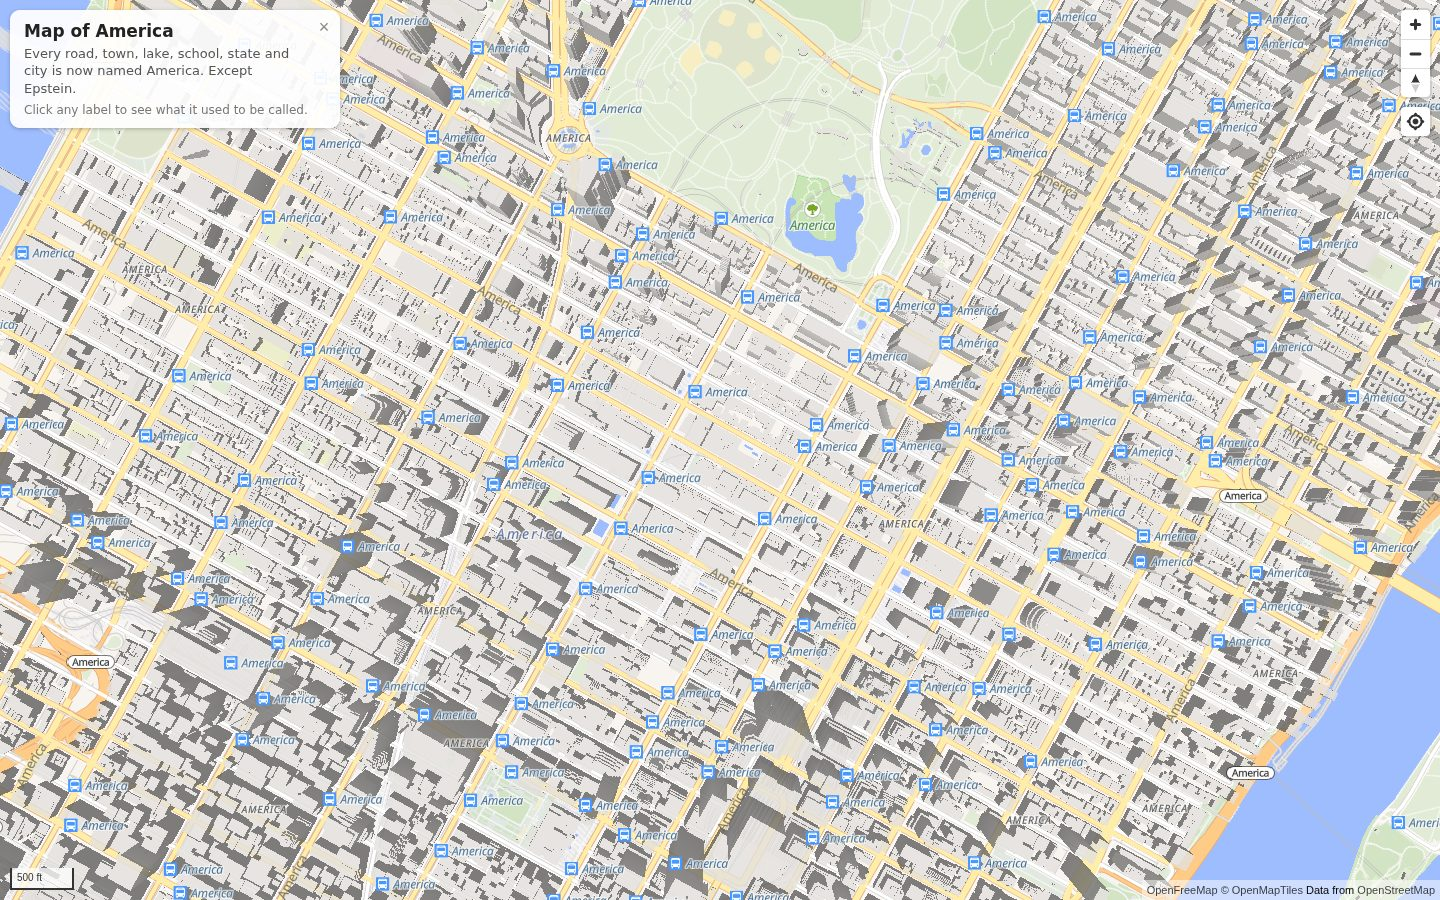
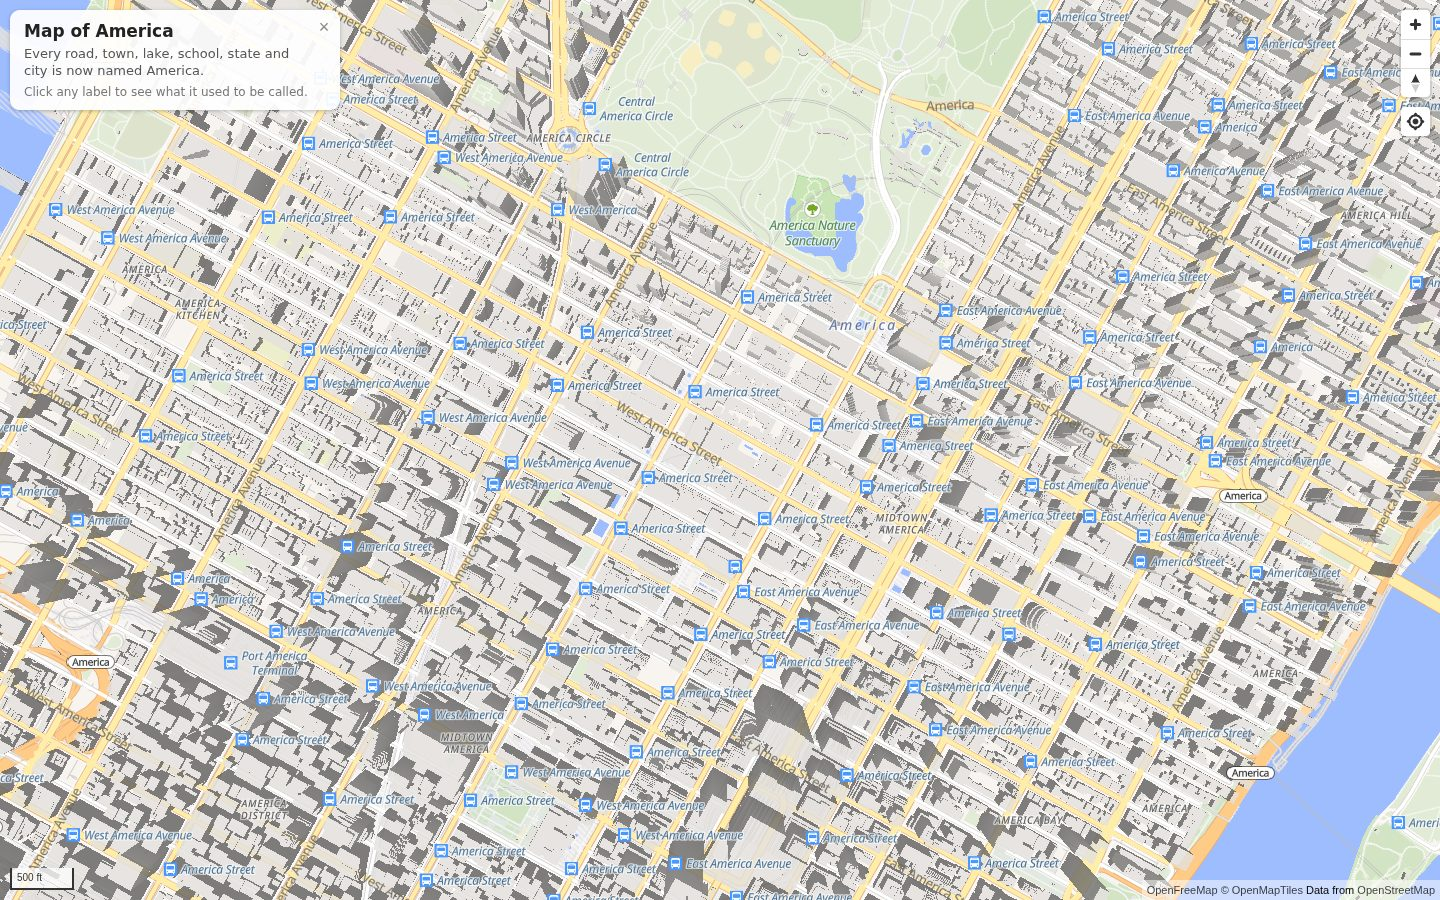
Rename carefully: keep the generic words, replace the proper noun
Lake Ontario is now Lake America, the Gulf of Mexico the Gulf of America,
New Mexico New America, South Dakota South America, and Greater Rochester
International Airport Greater America International Airport.

MapLibre expressions have no regular expressions, so america.js carries
lists of generic leading and trailing phrases mined from OpenStreetMap
names in US tiles. The longest matching suffix is taken first, then the
longest matching prefix of what is left, with America in between. When
only a lone generic word remains (New Haven, Central Park, South Park)
that word is kept and the suffix goes. Lookups are grouped by token
length into lazy match expressions; single-word names skip them.

Also: the popup shows the new name, the overlay no longer mentions the
exception, and the README documents the rename and switches the DNS
table to an ALIAS record.

Claude-Session: https://claude.ai/code/session_01SJEs18vTJ2dgcWt3HH5nAz

diff --git a/america.js b/america.js
@@ -6,6 +6,9 @@
  * example OpenFreeMap's "liberty") and rewrites every label so it reads
  * "America": roads, streets, towns, cities, states, countries, lakes, ponds,
  * rivers, oceans, parks, schools, airports, highway shields, mountains.
+ * Generic words survive: Lake Ontario becomes Lake America, the Gulf of
+ * Mexico the Gulf of America, and Greater Rochester International Airport
+ * Greater America International Airport.
  *
  * The one exception: any feature whose name contains "Epstein" keeps its
  * original name. Some things you can't rename.
@@ -29,8 +32,216 @@
   var DEFAULTS = {
     name: 'America',    // what everything is called now
     keep: ['Epstein'],  // case-insensitive substrings that exempt a feature
-    extras: true        // also label what Liberty leaves out or hides
+    extras: true,       // also label what Liberty leaves out or hides
+    careful: true       // keep generic words: "Lake Ontario" -> "Lake America"
   };
+
+  /* ------------------------------------------------------------------ */
+  /* Generic words                                                       */
+  /* ------------------------------------------------------------------ */
+
+  // Leading words that stay when a name is renamed. Each ends with a space
+  // so that "New " never matches "Newark". Longest match wins. Mined from
+  // OpenStreetMap names in US tiles; order here is for reading only.
+  var PREFIXES = [
+    // landforms and water
+    'Lake ', 'Lake of the ', 'Mount ', 'Mt. ', 'Cape ', 'Point ', 'Port ', 'Fort ', 'Ft. ', 'Camp ', 'Bayou ',
+    'Glen ', 'Isle ', 'Isle of ', 'Island of ', 'Key ', 'Sierra ', 'Gulf of ', 'Bay of ', 'Strait of ',
+    'Straits of ', 'Sea of ', 'Mouth of ', 'North Fork ', 'South Fork ', 'East Fork ', 'West Fork ',
+    'Middle Fork ',
+    // institutions
+    'Bank of ', 'Church of ', 'University of ', 'College of ', 'Museum of ', 'Library of ', 'School of ',
+    'Academy of ', 'Institute of ', 'Department of ', 'House of ', 'Law Offices of ', 'Consulate General of ',
+    'Hotel ', 'Cafe ', 'Café ', 'Hilton ', 'Holiday Inn ', 'Best Western ', 'Holy ', 'P.S. ',
+    'Mr. ', 'Dr. ', 'Pier ',
+    // places and governments
+    'City of ', 'Town of ', 'Village of ', 'County of ', 'State of ', 'Republic of ', 'Kingdom of ',
+    'United States of ', 'Commonwealth of ', 'Federal Republic of ', 'District of ', 'Pueblo of ',
+    'Saint ', 'St. ', 'St ', 'Ste. ', 'San ', 'Santa ', 'Santo ', 'São ', 'Los ', 'Las ', 'El ', 'La ', 'Le ',
+    'Les ', 'Des ', 'Rio ', 'Río ', 'Rancho ', 'Villa ', 'Ciudad ', 'Nuevo ', 'Nueva ',
+    'New ', 'North ', 'South ', 'East ', 'West ', 'Northeast ', 'Northwest ', 'Southeast ', 'Southwest ',
+    'Northern ', 'Southern ', 'Eastern ', 'Western ', 'Upper ', 'Lower ', 'Middle ', 'Old ', 'Little ',
+    'Big ', 'Great ', 'Greater ', 'Grand ', 'Central ', 'Midtown ', 'Downtown ', 'Historic ', 'Royal ', 'The ',
+    // roads
+    'Interstate ', 'Interstate Highway ', 'State Route ', 'State Highway ', 'US Route ', 'US Highway ',
+    'US ', 'County Road ', 'County Highway ', 'Route ', 'Highway ', 'Avenue ', 'Public Alley ', 'Private Alley ',
+    'State Game Lands Number '
+  ];
+
+  // Trailing words that stay. Each starts with a space. Longest match wins.
+  var SUFFIXES = [
+    // water
+    ' Lake', ' Lakes', ' Pond', ' Reservoir', ' River', ' Creek', ' Brook', ' Run', ' Branch', ' Fork',
+    ' Bayou', ' Canal', ' Ditch', ' Wash', ' Stream', ' Falls', ' Springs', ' Spring', ' Bay', ' Sound',
+    ' Inlet', ' Harbor', ' Harbour', ' Cove', ' Lagoon', ' Strait', ' Channel', ' Gulf', ' Ocean', ' Sea',
+    ' Island', ' Islands', ' Isle', ' Key', ' Keys', ' Neck', ' Cape', ' Point', ' Beach', ' Shore', ' Shores',
+    ' Marsh', ' Swamp', ' Glacier',
+    // land
+    ' Mountain', ' Mountains', ' Peak', ' Summit', ' Knob', ' Hill', ' Hills', ' Highlands', ' Ridge', ' Range',
+    ' Mesa', ' Butte', ' Bluff', ' Rock', ' Canyon', ' Valley', ' Hollow', ' Pass', ' Gap', ' Plateau', ' Basin',
+    ' Volcano', ' Desert', ' Plain', ' Plains', ' Pines', ' Oaks', ' Woods', ' Forest', ' Grove', ' View',
+    ' Haven', ' Heights', ' Meadows', ' Acres', ' Estates', ' Manor', ' Farms', ' Ranch', ' Colony',
+    // parks and protected land
+    ' National Park', ' National Forest', ' National Monument', ' National Wildlife Refuge',
+    ' National Recreation Area', ' National Conservation Area', ' National Historic Site',
+    ' National Historical Park', ' National Seashore', ' National Lakeshore', ' National Grassland',
+    ' National Battlefield', ' National Preserve', ' National Marine Sanctuary', ' Provincial Park', ' State Park', ' State Forest',
+    ' State Beach', ' State Recreation Area', ' State Wildlife Area', ' Regional Park', ' County Park',
+    ' River State Park', ' Creek State Park', ' Mountain State Park', ' Wildlife Management Area',
+    ' Wildlife Refuge', ' Wildlife Area', ' Wilderness Study Area', ' Wilderness Area', ' Wilderness',
+    ' Mountains Wilderness', ' Mountain Wilderness', ' Peak Wilderness', ' Creek Wilderness',
+    ' Range Wilderness', ' Canyon Wilderness', ' Conservation Area', ' Conservation Easement',
+    ' Natural Area', ' Recreation Area', ' Open Space', ' Game Land', ' Wild Forest', ' Nature Reserve',
+    ' Nature Preserve', ' Nature Sanctuary', ' Nature Center', ' Preserve', ' Reserve', ' Sanctuary',
+    ' Refuge', ' Park', ' Playground', ' Garden', ' Gardens', ' Green', ' Common', ' Commons', ' Greenway',
+    ' Trailhead', ' Area',
+    // roads
+    ' Street', ' Avenue', ' Boulevard', ' Road', ' Drive', ' Lane', ' Court', ' Place', ' Way', ' Circle',
+    ' Crescent', ' Terrace', ' Trail', ' Path', ' Parkway', ' Highway', ' Freeway', ' Expressway', ' Turnpike',
+    ' Pike', ' Thruway', ' Tollway', ' Skyway', ' Beltway', ' Busway', ' Speedway', ' Bypass', ' Loop',
+    ' Alley', ' Plaza', ' Square', ' Row', ' Walk', ' Promenade', ' Esplanade', ' Steps', ' Bike Path',
+    ' Service Road', ' Express Lanes', ' Bridge', ' Tunnel', ' Causeway', ' Viaduct', ' Overpass', ' Footbridge',
+    ' Extension', ' Connector', ' Spur', ' Crossing', ' Interchange', ' Exit',
+    ' Memorial Highway', ' Memorial Parkway', ' Memorial Freeway', ' Memorial Bridge', ' Memorial Drive',
+    ' Memorial Trail', ' State Parkway', ' State Thruway', ' River Parkway', ' Creek Trail',
+    ' Street North', ' Street South', ' Street East', ' Street West', ' Street Northeast', ' Street Northwest',
+    ' Street Southeast', ' Street Southwest', ' Avenue North', ' Avenue South', ' Avenue East', ' Avenue West',
+    ' Avenue Northeast', ' Avenue Northwest', ' Avenue Southeast', ' Avenue Southwest', ' Boulevard Southeast',
+    ' North', ' South', ' East', ' West',
+    // places
+    ' City', ' County', ' Parish', ' Borough', ' Township', ' Charter Township', ' Town', ' Village',
+    ' District', ' Historic District', ' Ranger District', ' Junction', ' Center', ' Centre', ' Landing',
+    ' Station', ' Terminal', ' Depot', ' Corner', ' Corners', ' Mills', ' Ferry', ' Fort',
+    ' Indian Reservation', ' Reservation', ' Nation', ' Tribe', ' Agency',
+    // airfields
+    ' International Airport', ' Regional Airport', ' Municipal Airport', ' County Airport',
+    ' Executive Airport', ' Airport', ' Airfield', ' Airstrip', ' Airpark', ' Heliport', ' Seaplane Base',
+    ' Air Force Base', ' Naval Air Station', ' Field',
+    // institutions
+    ' High School', ' Middle School', ' Junior High School', ' Elementary School', ' Primary School',
+    ' Charter School', ' Preparatory School', ' Day School', ' Academy', ' School', ' University',
+    ' Community College', ' College', ' Institute', ' Seminary', ' Public Library', ' Library',
+    ' Residence Hall', ' Hospital', ' Medical Center', ' Health Center', ' Community Center',
+    ' Visitor Center', ' Convention Center', ' Clinic', ' Baptist Church', ' United Methodist Church',
+    ' Methodist Church', ' Catholic Church', ' Presbyterian Church', ' Lutheran Church', ' Episcopal Church',
+    ' Church', ' Cathedral', ' Chapel', ' Temple', ' Synagogue', ' Mosque', ' Cemetery', ' Memorial',
+    ' Monument', ' Museum', ' Gallery', ' Theater', ' Theatre', ' Stadium', ' Arena', ' Coliseum',
+    ' Ballpark', ' Golf Course', ' Golf Club', ' Country Club', ' Club', ' Lounge', ' Tavern', ' Pub',
+    ' Bar & Grill', ' Bar', ' Grill', ' Kitchen', ' Diner', ' Deli', ' Pizza', ' Bakery', ' Coffee', ' Cafe',
+    ' Café', ' Restaurant', ' Brewery', ' Winery', ' Hotel', ' Inn', ' Motel', ' Lodge', ' Resort', ' Spa',
+    ' Salon', ' Studio', ' Cleaners', ' Mall', ' Market', ' Store', ' Shop', ' Pharmacy', ' Bank',
+    ' Credit Union', ' Office', ' Post Office', ' Fire Department', ' Fire Station', ' Police Department',
+    ' Police Station', ' City Hall', ' Town Hall', ' Courthouse', ' Correctional Facility', ' Prison',
+    ' Jail', ' Parking', ' Parking Garage', ' Parking Lot', ' Parking Deck', ' Garage', ' Zoo', ' Aquarium',
+    ' Observatory', ' Lighthouse', ' Marina', ' Pier', ' Dock', ' Yard', ' Works', ' Company', ' Corporation',
+    ' Foundation', ' Building', ' Tower', ' Towers', ' Hall', ' House'
+  ];
+
+  function longestFirst(a, b) {
+    return b.length - a.length || (a < b ? -1 : a > b ? 1 : 0);
+  }
+  PREFIXES = unique(PREFIXES).sort(longestFirst);
+  SUFFIXES = unique(SUFFIXES).sort(longestFirst);
+
+  /** Which of a label's fields to rename from, most readable first. */
+  var PRIORITY = ['name_en', 'name:en', 'name', 'name:latin', 'name_int', 'name_de', 'name:nonlatin', 'ref'];
+
+  function prioritized(fields) {
+    var head = PRIORITY.filter(function (f) { return fields.indexOf(f) !== -1; });
+    var tail = fields.filter(function (f) { return PRIORITY.indexOf(f) === -1; });
+    return head.concat(tail);
+  }
+
+  /** Expression: the text the careful rename works on, "" when the feature has none of the fields. */
+  function sourceExpression(fields) {
+    return ['to-string', ['coalesce'].concat(prioritized(fields).map(function (f) { return ['get', f]; }))];
+  }
+
+  /**
+   * Expression: the longest token in `tokens` found at the end (or, with
+   * `atStart`, the beginning) of the string in `v`, else "". Tokens are
+   * grouped by length so each length costs one slice and one `match` lookup
+   * rather than one comparison per token, and the lookups run lazily,
+   * longest first, stopping at the first hit.
+   *
+   * No length guard is needed: every token carries a boundary space, so a
+   * string can never equal a token outright, and a slice of a string shorter
+   * than the token is shorter than the token too. That also means a feature
+   * named just "Airport" or "The" is renamed whole, as it should be.
+   */
+  function pickExpr(v, tokens, atStart) {
+    var byLength = {};
+    tokens.forEach(function (t) { (byLength[t.length] = byLength[t.length] || []).push(t); });
+    var lengths = Object.keys(byLength).map(Number).sort(function (a, b) { return b - a; });
+    function lookup(k) {
+      var piece = atStart ? ['slice', v, 0, k] : ['slice', v, ['-', ['length', v], k]];
+      var m = ['match', piece];
+      byLength[k].forEach(function (t) { m.push(t, t); });
+      m.push('');
+      return m;
+    }
+    var expr = ['case'];
+    lengths.forEach(function (k) { expr.push(['!=', lookup(k), ''], lookup(k)); });
+    expr.push('');
+    return expr;
+  }
+
+  /**
+   * Expression: prefix + name + suffix for the text in `source`. The longest
+   * generic suffix is taken first, then the longest generic prefix of what is
+   * left; everything in between, however many words, becomes `name`.
+   *
+   * One twist: when nothing but a lone generic word is left once the suffix
+   * is gone ("New Haven", "Central Park", "South Park", "West Point"), that
+   * word is the one to keep and the one-word suffix was the proper noun, so
+   * the result is "New America", "Central America", "South America", "West
+   * America". A multi-word suffix is generic through and through and stays:
+   * "South High School" becomes "South America High School".
+   *
+   * Single-word names (brands, route numbers) skip the lookups entirely;
+   * they are a fifth of all labels in a dense city tile.
+   */
+  function carefulExpression(source, name) {
+    var text = ['var', 'america_text'], suffix = ['var', 'america_suffix'], core = ['var', 'america_core'];
+    var noSpace = function (v) { return ['==', ['index-of', ' ', v], -1]; };
+    var isGeneric = function (v) { return ['in', ['concat', v, ' '], ['literal', PREFIXES]]; };
+    return ['let', 'america_text', source,
+      ['case', noSpace(text),
+        ['case', isGeneric(text), ['concat', text, ' ', name], name],
+        ['let', 'america_suffix', pickExpr(text, SUFFIXES, false),
+          ['let', 'america_core', ['slice', text, 0, ['-', ['length', text], ['length', suffix]]],
+            ['case',
+              isGeneric(core), ['case', ['in', ' ', ['slice', suffix, 1]],
+                ['concat', core, ' ', name, suffix],
+                ['concat', core, ' ', name]],
+              noSpace(core), ['concat', name, suffix],
+              ['let', 'america_prefix', pickExpr(core, PREFIXES, true),
+                ['concat', ['var', 'america_prefix'], name, suffix]]]]]]];
+  }
+
+  /** Plain-JS mirror of carefulExpression(): rename one label. */
+  function rename(text, name) {
+    text = text == null ? '' : String(text);
+    name = name == null ? DEFAULTS.name : name;
+    var suffix = '', prefix = '', i;
+    for (i = 0; i < SUFFIXES.length; i++) {
+      if (text.length > SUFFIXES[i].length && text.slice(text.length - SUFFIXES[i].length) === SUFFIXES[i]) {
+        suffix = SUFFIXES[i];
+        break;
+      }
+    }
+    var core = text.slice(0, text.length - suffix.length);
+    if (PREFIXES.indexOf(core + ' ') !== -1) {
+      return core + ' ' + name + (suffix.slice(1).indexOf(' ') !== -1 ? suffix : '');
+    }
+    for (i = 0; i < PREFIXES.length; i++) {
+      if (core.length > PREFIXES[i].length && core.slice(0, PREFIXES[i].length) === PREFIXES[i]) {
+        prefix = PREFIXES[i];
+        break;
+      }
+    }
+    return prefix + name + suffix;
+  }
 
   /** Layer metadata key under which the fields a label was built from are recorded. */
   var FIELDS_KEY = 'america:fields';
@@ -148,11 +359,14 @@
   function renameExpression(original, opts) {
     var blank = hadNoLabel(original.fields);
     var kept = keepTest(opts.keep, original.fields);
+    var renamed = opts.careful && original.fields.length
+      ? carefulExpression(sourceExpression(original.fields), opts.name)
+      : opts.name;
     var branches = [];
     if (blank) branches.push(blank, '');
     if (kept) branches.push(kept, original.expression);
-    if (branches.length === 0) return opts.name;
-    return ['case'].concat(branches, [opts.name]);
+    if (branches.length === 0) return renamed;
+    return ['case'].concat(branches, [renamed]);
   }
 
   /* ------------------------------------------------------------------ */
@@ -394,6 +608,23 @@
     return primary;
   }
 
+  /** The text the careful rename starts from, mirroring sourceExpression(). */
+  function sourceText(properties, fields) {
+    var p = properties || {};
+    var list = prioritized(fields && fields.length ? fields : ['name_en', 'name']);
+    for (var i = 0; i < list.length; i++) {
+      if (p[list[i]] != null) return String(p[list[i]]);
+    }
+    return '';
+  }
+
+  /** What the map calls a feature now, from its tile properties and the layer's fields. */
+  function labelFor(properties, fields, options) {
+    var opts = Object.assign({}, DEFAULTS, options || {});
+    if (!opts.careful || !(fields && fields.length)) return opts.name;
+    return rename(sourceText(properties, fields), opts.name);
+  }
+
   /** Plain-JS mirror of keepTest(), for the same feature properties. */
   function isKept(properties, keep, fields) {
     var words = (keep || DEFAULTS.keep).map(function (w) { return String(w).toLowerCase(); });
@@ -409,8 +640,12 @@
     labelLayerIds: labelLayerIds,
     labelFields: labelFields,
     originalName: originalName,
+    labelFor: labelFor,
+    rename: rename,
     isKept: isKept,
     NAME_FIELDS: NAME_FIELDS.slice(),
+    PREFIXES: PREFIXES.slice(),
+    SUFFIXES: SUFFIXES.slice(),
     IMAGES: IMAGES.slice(),
     DEFAULTS: clone(DEFAULTS)
   };

diff --git a/index.html b/index.html
@@ -71,7 +71,7 @@
   <div id="map"></div>
   <div id="badge">
     <h1>Map of America</h1>
-    <p id="message">Every road, town, lake, school, state and city is now named America. Except Epstein.</p>
+    <p id="message">Every road, town, lake, school, state and city is now named America.</p>
     <p class="hint">Click any label to see what it used to be called.</p>
     <button type="button" aria-label="Dismiss">&times;</button>
   </div>
@@ -170,9 +170,10 @@
         const hit = labelAt(e.point);
         if (!hit) { popup.remove(); return; }
         const was = nameOf(hit);
+        const now = America.labelFor(hit.properties, labelFields[hit.layer.id]);
         const html = America.isKept(hit.properties, undefined, labelFields[hit.layer.id])
           ? '<b>' + esc(was) + '</b><br><span class="was">Still ' + esc(was) + '. Some things you can’t rename.</span>'
-          : '<b>America</b><br><span class="was">formerly “' + esc(was) + '”</span>';
+          : '<b>' + esc(now) + '</b><br><span class="was">formerly “' + esc(was) + '”</span>';
         popup.setLngLat(e.lngLat).setHTML(html).addTo(map);
       });
       map.on('mousemove', (e) => {

diff --git a/README.md b/README.md
@@ -2,7 +2,7 @@
 
 The Gulf of Mexico became the Gulf of America [Executive Order 14172, "Restoring Names That Honor American Greatness"; January 20, 2025]. Then Lake Ontario. Why stop there?
 
-This is a full-screen map of the United States on which every road, street, town, city, state, country, lake, pond, river, ocean, park, school, airport, mountain and highway shield is named **America**.
+This is a full-screen map of the United States on which every road, street, town, city, state, country, lake, pond, river, ocean, park, school, airport, mountain and highway shield is named **America**. Carefully: Lake Ontario is Lake America, the Gulf of Mexico is the Gulf of America, New Mexico is New America, South Dakota is South America, and Greater Rochester International Airport is Greater America International Airport.
 
 The one exception is anything named **Epstein**. Epstein Street in Sherman, Texas is still Epstein Street. Some things you can't rename.
 
@@ -22,7 +22,7 @@ There is no build step, no server-side processing and no paid map plan.
 
   1. If the feature had no label (an unnamed service road, a bus stop, a road with no route number), it still has none.
   2. If any of its name fields contain "epstein", case-insensitively, the original label is kept.
-  3. Otherwise the label is "America".
+  3. Otherwise the generic words are kept and the proper noun becomes "America". Expressions have no regular expressions, so this is done with a dictionary: take the longest known trailing phrase (" International Airport", " National Park", " Street"), then the longest known leading phrase of what is left ("Lake ", "Gulf of ", "New ", "Greater "), and put "America" in between. Whatever was in the middle, however many words, is gone. "West 56th Street" is "West America Street"; "Bank of Montreal" is "Bank of America"; "Broadway" is just "America". The lists live at the top of `america.js`.
 
   Highway shields get the same treatment. Since "America" is seven letters and Liberty picks shield sprites by the length of the route number, the shields are swapped for the widest sprite of each network and stretched sideways around the text.
 
@@ -46,11 +46,12 @@ To publish it, turn on GitHub Pages for this repository (Settings, Pages, deploy
 
 The site lives at [mapofamerica.wtf](https://mapofamerica.wtf). The `CNAME` file in the repository root tells GitHub Pages the domain; the DNS side is:
 
-| Name  | Type  | Value                                                                          |
-| ----- | ----- | ------------------------------------------------------------------------------ |
-| `@`   | A     | `185.199.108.153`, `185.199.109.153`, `185.199.110.153`, `185.199.111.153`     |
-| `@`   | AAAA  | `2606:50c0:8000::153`, `2606:50c0:8001::153`, `2606:50c0:8002::153`, `2606:50c0:8003::153` |
-| `www` | CNAME | `ryantenney.github.io`                                                         |
+| Name  | Type          | Value                  |
+| ----- | ------------- | ---------------------- |
+| `@`   | ALIAS / ANAME | `ryantenney.github.io` |
+| `www` | CNAME         | `ryantenney.github.io` |
+
+An ALIAS (or ANAME, or a flattened CNAME on Cloudflare) resolves GitHub's current addresses at query time, so there are no IP addresses to keep up to date. If the DNS host has no such record type, use four A records instead: `185.199.108.153`, `185.199.109.153`, `185.199.110.153`, `185.199.111.153`.
 
 GitHub redirects `www` to the bare domain. Once the records resolve, tick "Enforce HTTPS" in the Pages settings.
 
@@ -76,8 +77,9 @@ OpenFreeMap serves its style and sprite unversioned, so `npm run check-upstream`
 | `name`   | `"America"`   | what everything is called now                                    |
 | `keep`   | `["Epstein"]` | case-insensitive substrings; matching features keep their names  |
 | `extras` | `true`        | label parks, peaks and airfields too, and show states longer     |
+| `careful` | `true`       | keep generic words; `false` renames every label to just `name`  |
 
-`America.labelLayerIds(style)`, `America.labelFields(style)`, `America.originalName(properties, fields)` and `America.isKept(properties)` are the helpers the page uses for click handling.
+`America.labelLayerIds(style)`, `America.labelFields(style)`, `America.originalName(properties, fields)`, `America.labelFor(properties, fields)` and `America.isKept(properties)` are the helpers the page uses for click handling; `America.rename(text)` applies the dictionary to one string.
 
 ## Using a different base map
 
